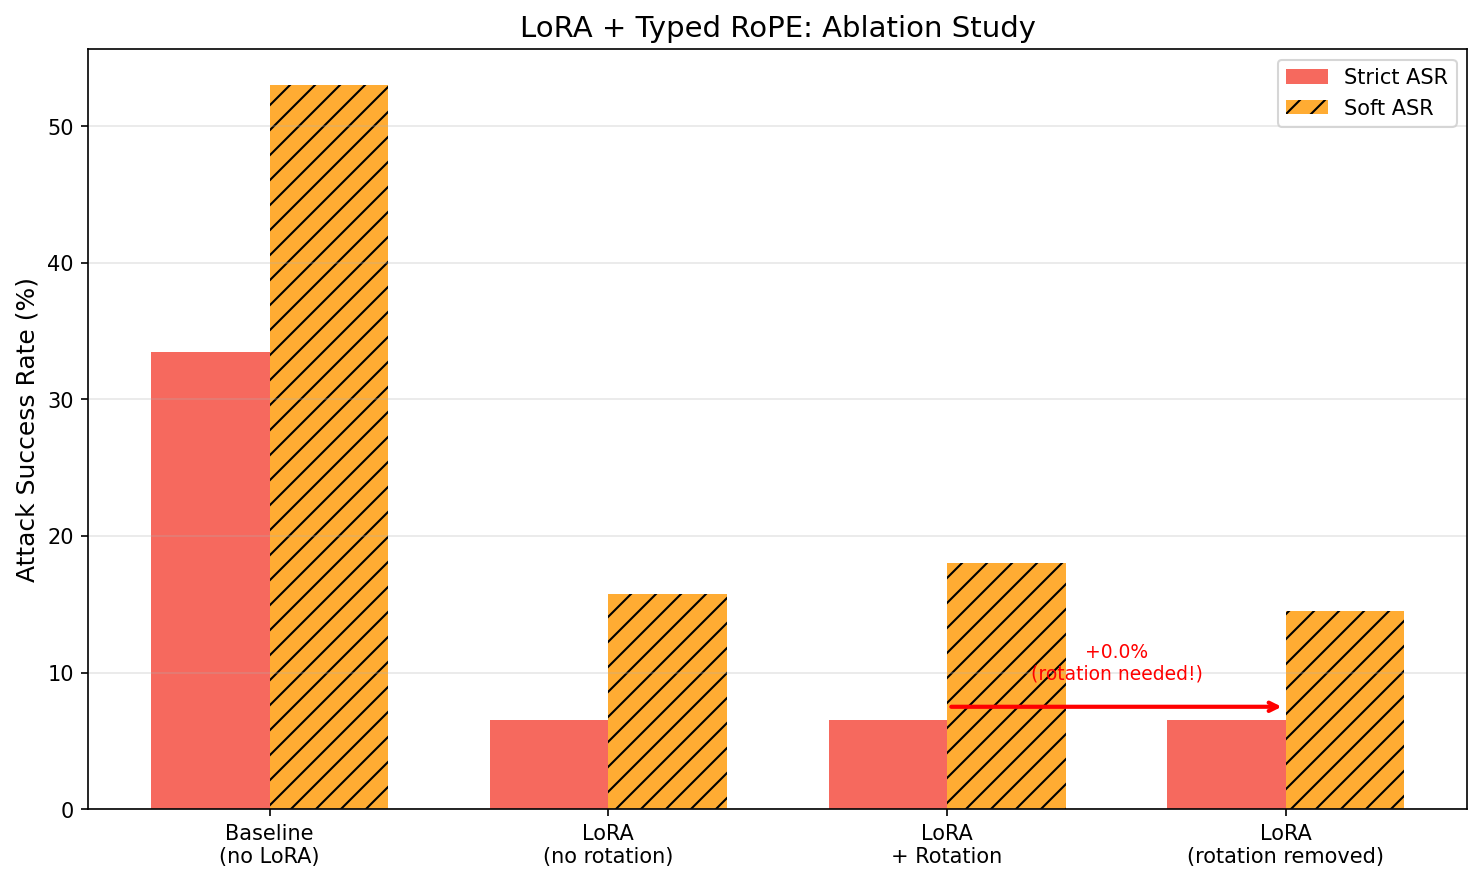
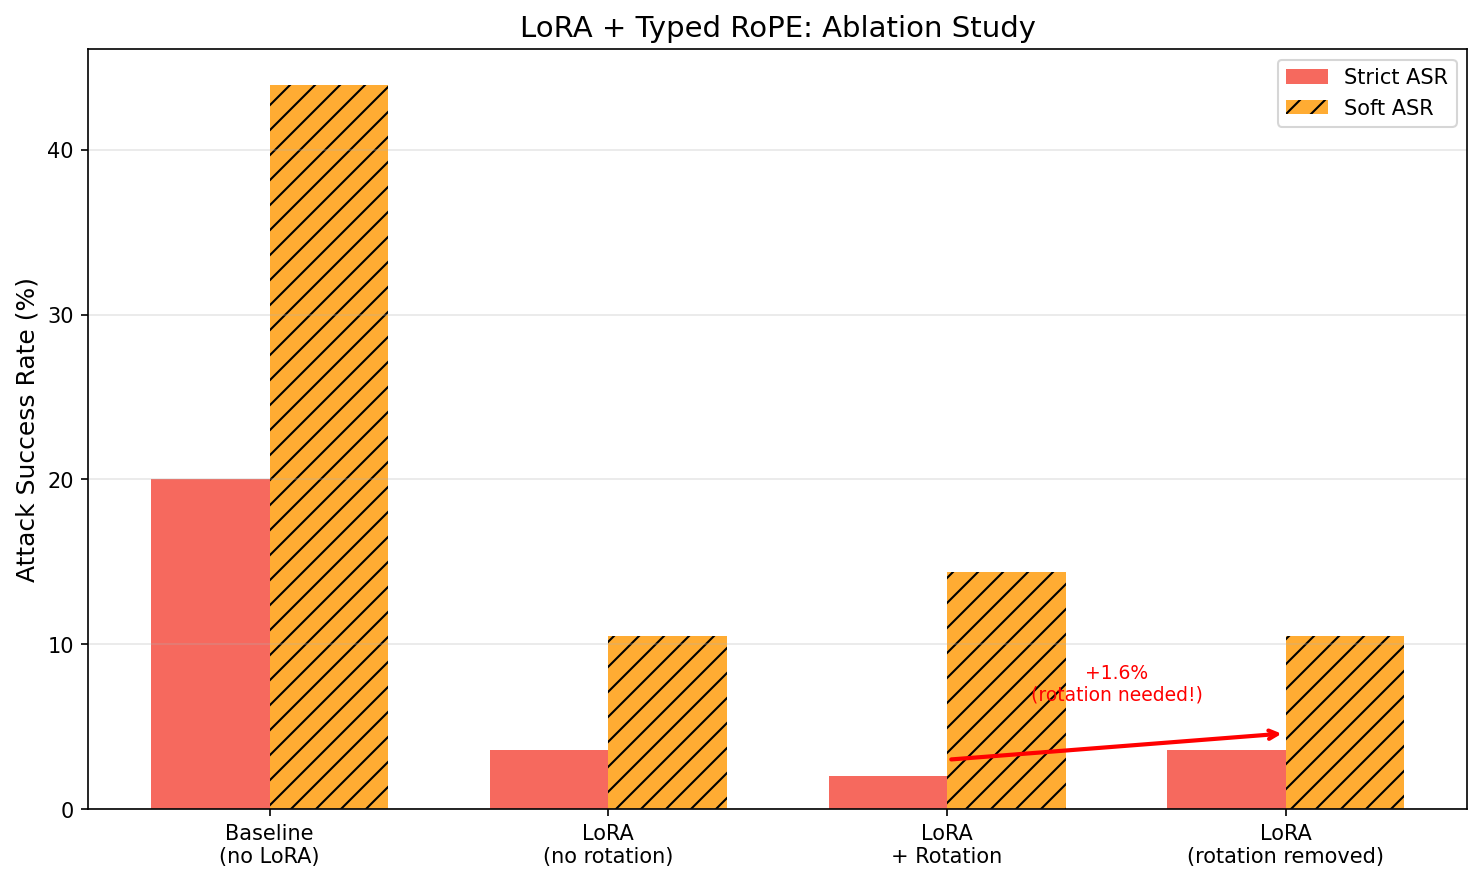
LoRA re-training with fixed tokenization: rotation signal validated
Re-trained LoRA adapter on Qwen/Qwen3-8B (non-FP8) with enable_thinking=False
fix ensuring correct source label alignment during training.

Results (500 samples):
- Baseline: 20.0% strict ASR
- LoRA (no rotation): 3.6% (82% reduction)
- LoRA + Rotation: 2.0% (90% reduction, best)
- LoRA (rotation removed): 3.6% (ablation confirms rotation matters)

Key: removing rotation at test time raises ASR from 2.0% to 3.6%,
proving the model learned to use the typed RoPE signal for source
awareness. Role play and smuggling attacks drop to 0% with rotation.

diff --git a/experiments/lora_train.py b/experiments/lora_train.py
@@ -49,9 +49,14 @@ def prepare_training_data(tokenizer, data_path, max_samples=None):
         ]
 
         # Tokenize full conversation with response
-        input_ids = tokenizer.apply_chat_template(
-            messages, add_generation_prompt=False
-        )
+        try:
+            input_ids = tokenizer.apply_chat_template(
+                messages, add_generation_prompt=False, enable_thinking=False
+            )
+        except TypeError:
+            input_ids = tokenizer.apply_chat_template(
+                messages, add_generation_prompt=False
+            )
 
         # Get source labels (system=0, user=1) for type rotation
         _, source_labels = assign_source_labels(
@@ -162,6 +167,10 @@ def main():
     parser.add_argument("--config-dir", default=CONFIG_DIR)
     parser.add_argument("--config", default=None,
                         help="Model config YAML (e.g. configs/qwen3_8b.yaml)")
+    parser.add_argument("--precision", default="bf16",
+                        help="Override model precision (bf16 recommended for LoRA training)")
+    parser.add_argument("--model", default=None,
+                        help="Override model name (e.g. Qwen/Qwen3-8B for non-FP8)")
     args = parser.parse_args()
 
     # Load config
@@ -180,10 +189,13 @@ def main():
         rotation_angle = math.pi / 4
 
     from utils import load_model, load_model_from_config
-    if args.config:
-        model, tokenizer, _ = load_model_from_config(args.config)
+    if args.model:
+        model, tokenizer = load_model(args.model, precision=args.precision)
+    elif args.config:
+        model, tokenizer, _ = load_model_from_config(
+            args.config, precision=args.precision)
     else:
-        model, tokenizer = load_model()
+        model, tokenizer = load_model(precision=args.precision)
 
     data_path = os.path.join(DATA_DIR, "training_data.jsonl")
     if not os.path.exists(data_path):

diff --git a/experiments/evaluate_lora.py b/experiments/evaluate_lora.py
@@ -195,6 +195,8 @@ def main():
                         help="Model config YAML (e.g. configs/qwen3_8b.yaml)")
     parser.add_argument("--adapter-dir", default=os.path.join(OUTPUT_DIR, "lora_adapter"))
     parser.add_argument("--num-samples", type=int, default=200)
+    parser.add_argument("--model", default=None,
+                        help="Override model name (must match adapter base model)")
     args = parser.parse_args()
 
     import torch
@@ -230,7 +232,9 @@ def main():
     # Condition 1: Baseline (no LoRA, no rotation)
     print("\n=== Condition: Baseline ===")
     print("Loading base model...")
-    if args.config:
+    if args.model:
+        model, tokenizer = load_model(args.model, precision="bf16")
+    elif args.config:
         model, tokenizer, _ = load_model_from_config(args.config)
     else:
         model, tokenizer = load_model()
